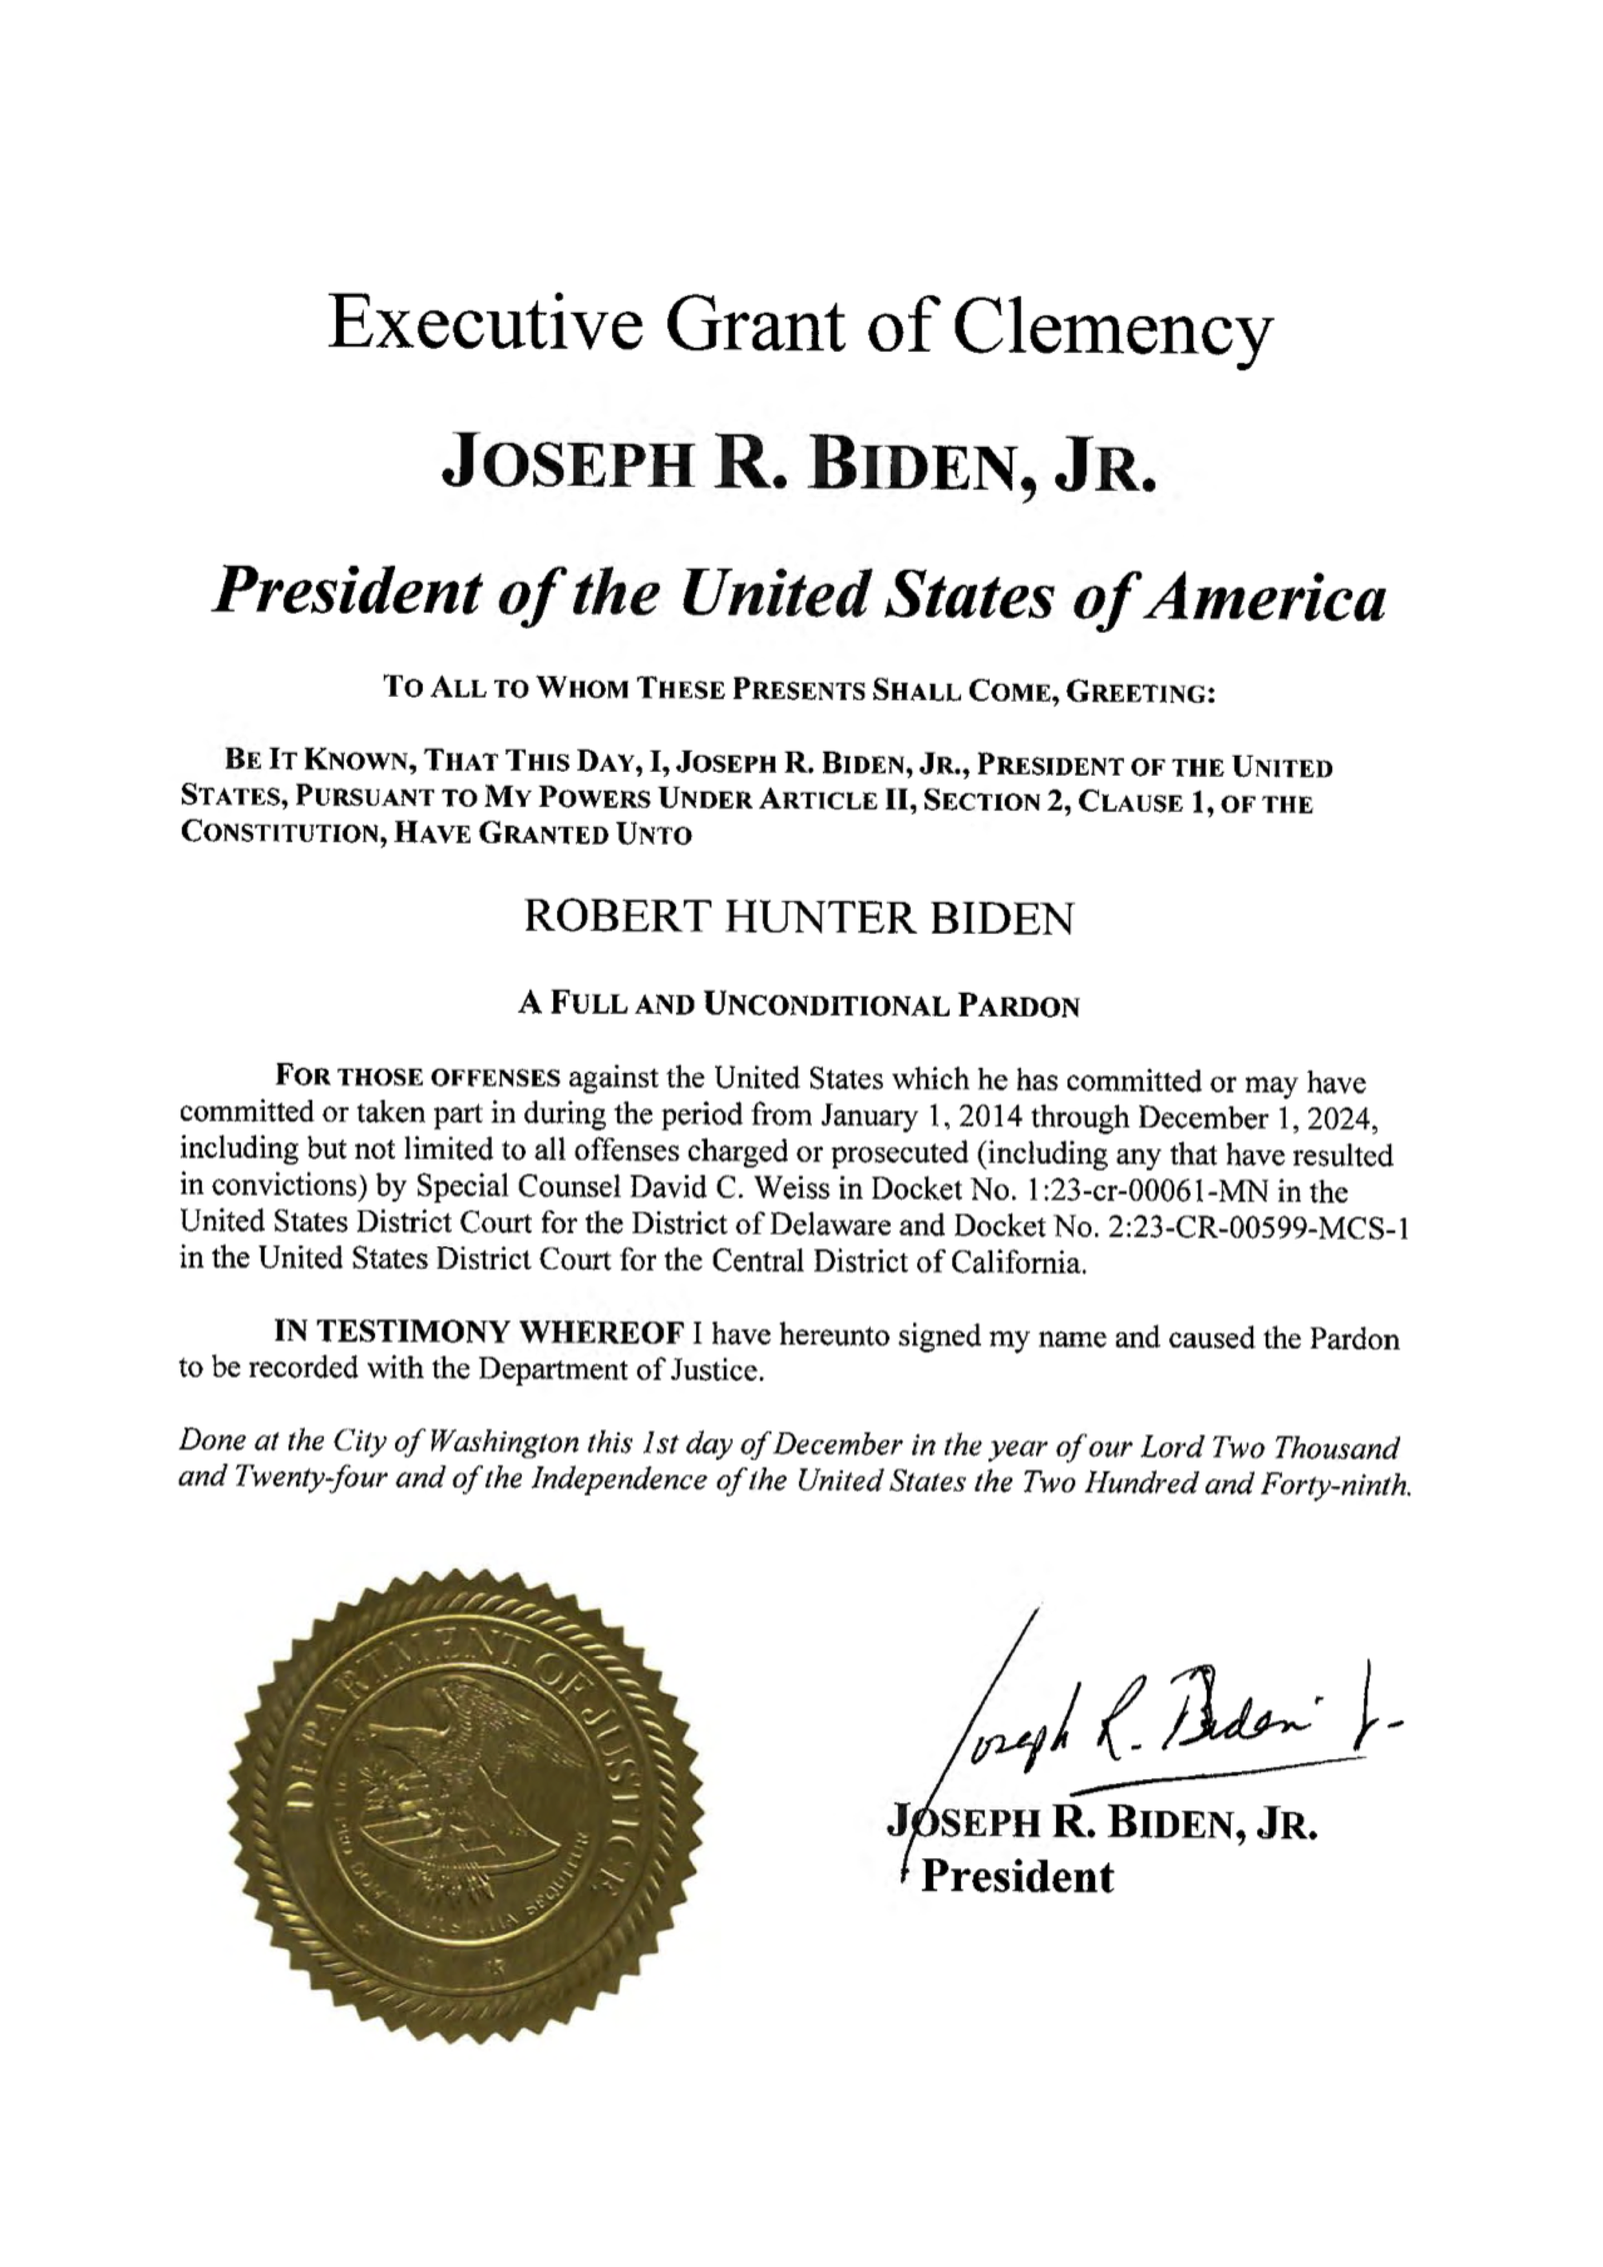
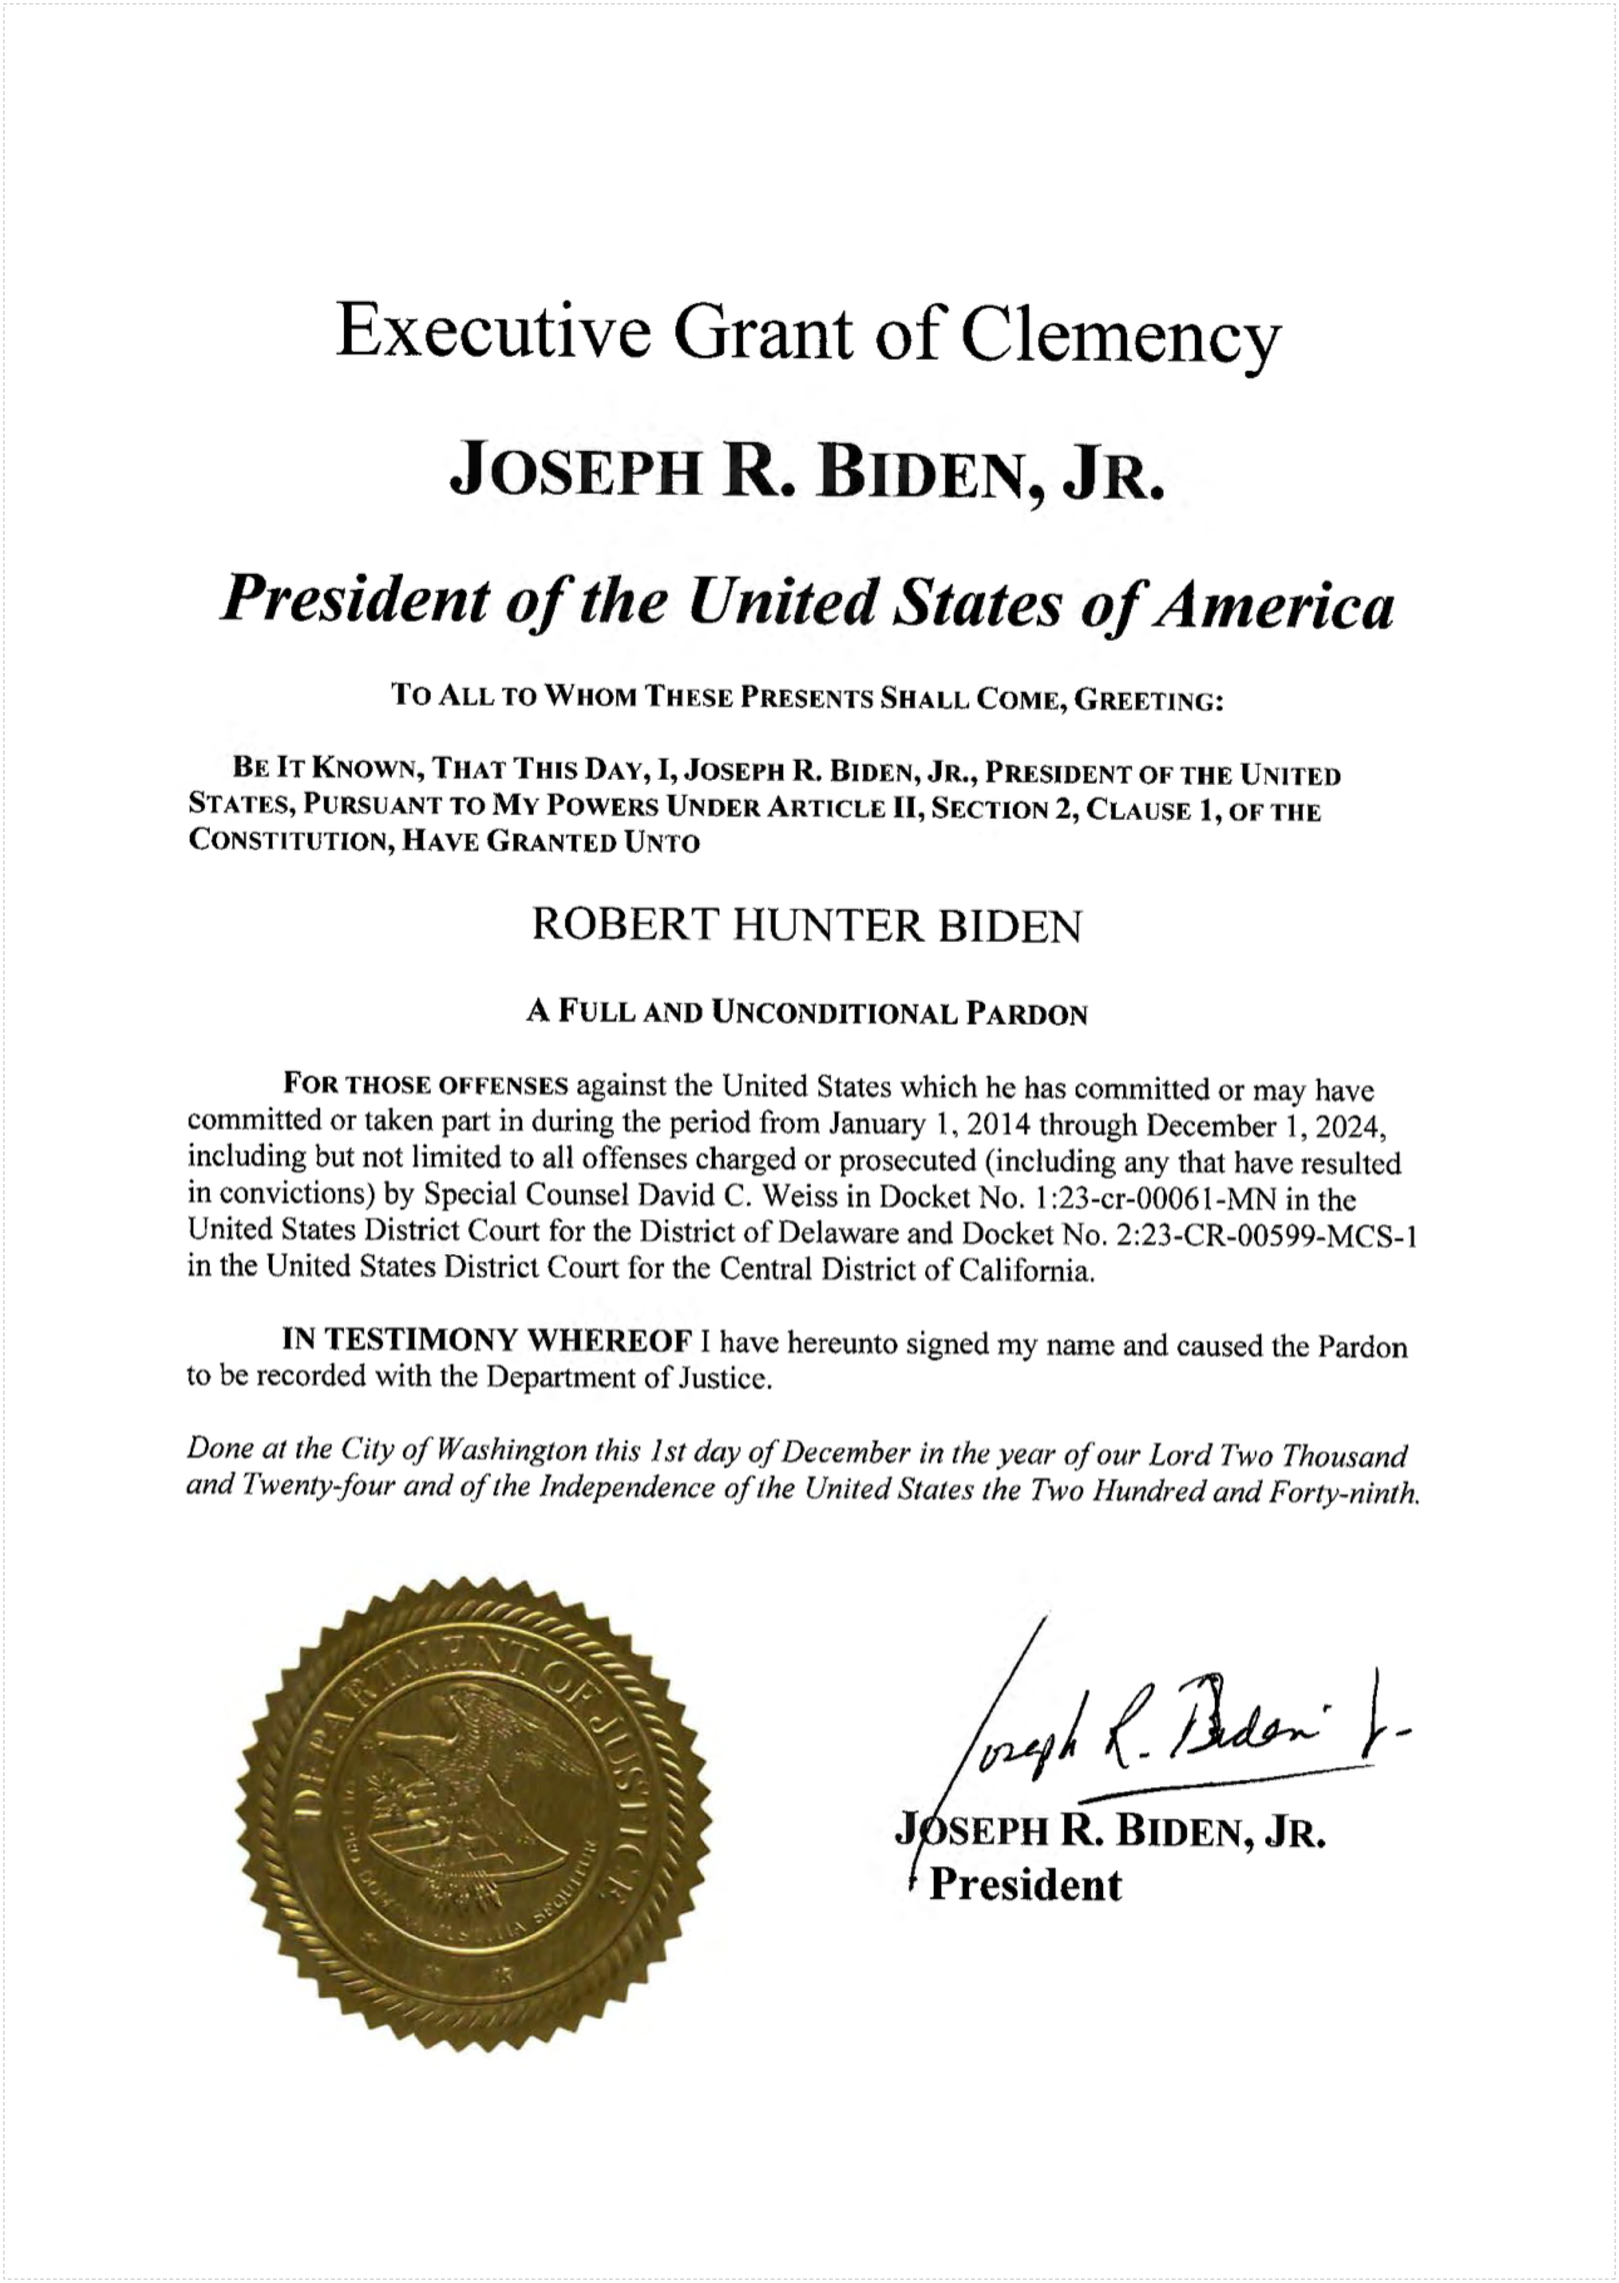
Add proper border

diff --git a/README.md b/README.md
@@ -8,7 +8,7 @@ Ever been asked to "print, sign, and scan" a document? Sometimes you just need a
 
 ### Original
 <p align="center">
-<img src="docs/sample.png" width="600" style="border: 1px dashed #999"/>
+<img src="docs/sample.png" width="600"/>
 </p>
 
 ### Default Scan
@@ -16,7 +16,7 @@ Ever been asked to "print, sign, and scan" a document? Sometimes you just need a
 scanify input.pdf
 ```
 <p align="center">
-<img src="docs/sample_scanned.png" width="600" style="border: 1px dashed #999"/>
+<img src="docs/sample_scanned.png" width="600"/>
 </p>
 
 ### All Effects
@@ -24,7 +24,7 @@ scanify input.pdf
 scanify --aggressive --bent --dusty input.pdf
 ```
 <p align="center">
-<img src="docs/sample_dusty_bent_aggressive.png" width="600" style="border: 1px dashed #999"/>
+<img src="docs/sample_dusty_bent_aggressive.png" width="600"/>
 </p>
 
 ## Installation
